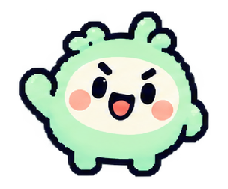
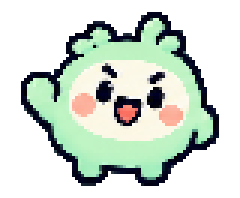
style: 깡이 18장을 80px 도트 격자로 다시 만들어 도트 느낌 강화

diff --git a/frontend/src/index.css b/frontend/src/index.css
@@ -392,6 +392,7 @@ button:disabled { opacity: 0.6; cursor: wait; }
   display: block;
   height: auto;
   object-fit: contain;
+  image-rendering: pixelated;
   animation: kkang-pop 0.35s ease-out both, kkang-bob 2.6s ease-in-out infinite;
 }
 .kkang-sm { width: 72px; }

diff --git a/docs/ASSETS.md b/docs/ASSETS.md
@@ -110,7 +110,7 @@
 
 ## 깡이 동작 18종 (v04, 2026-10-30)
 
-`frontend/public/assets/kkang/ui_{pro|con|guide}_{포즈}.png` — 원본 384×384를 18장 공통 범위(40,66)-(344,318)로 잘라 228×189로 축소(포즈가 바뀌어도 몸 위치가 튀지 않게). 정지 포즈를 바꿔 끼우고 CSS로 등장(pop)·들썩임(bob)을 준다. 동작 줄이기 설정이면 멈춤.
+`frontend/public/assets/kkang/ui_{pro|con|guide}_{포즈}.png` — 원본 384×384를 18장 공통 범위(40,66)-(344,318)로 잘라 80px 도트 격자로 줄이고(NEAREST, 색 섞지 않음) 3배 정수 확대한 240×198로 저장, CSS image-rendering: pixelated. 정지 포즈를 바꿔 끼우고 CSS로 등장(pop)·들썩임(bob)을 준다. 동작 줄이기 설정이면 멈춤.
 
 | 화면 | 연결 |
 |---|---|
